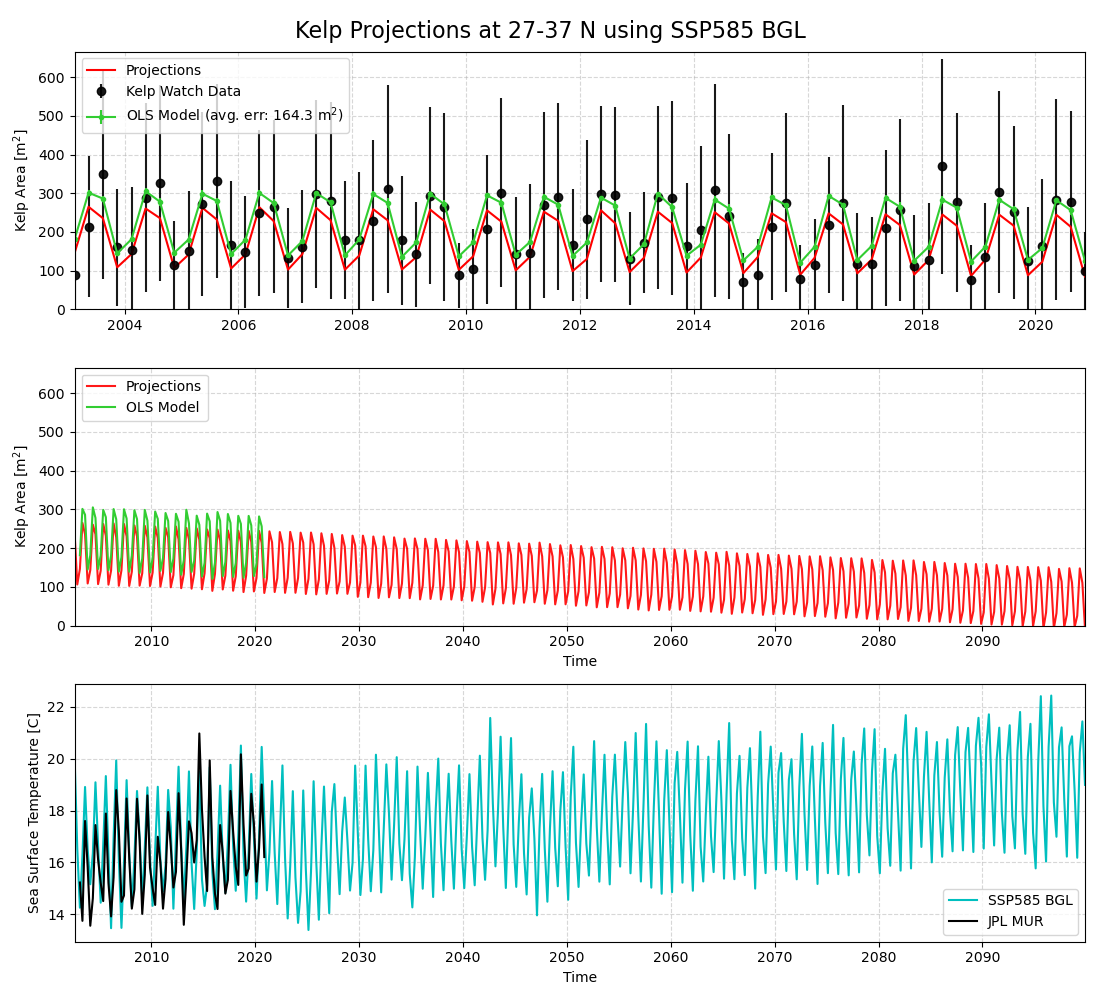
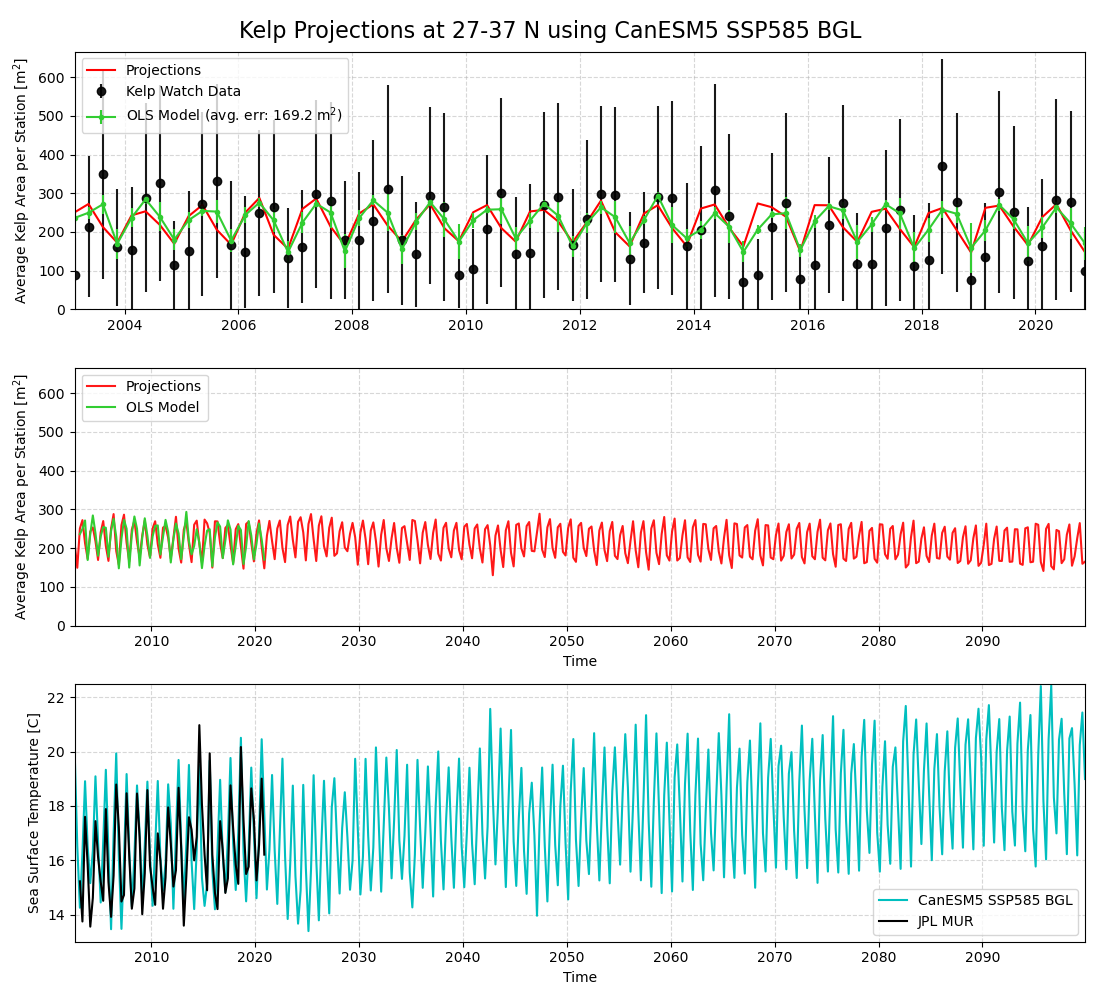
docs

diff --git a/regressors_predict.py b/regressors_predict.py
@@ -21,6 +21,10 @@ if __name__ == "__main__":
     parser.add_argument('-m', '--model', type=str, 
                         help='model type (OLS or MLP)',
                         default="OLS")
+    # sunlight bool
+    parser.add_argument('-s', '--sunlight', type=bool, 
+                        help='use sunlight as feature',
+                        default=False)
     args = parser.parse_args()
 
     # load data from disk
@@ -40,21 +44,38 @@ if __name__ == "__main__":
     print(len(time))
 
     # construct features
-    features = [
-        time, # days, 0-365*20
-        data['sunlight'], # SUNLIGHT
-        data['temp_lag']-273.15,
-        data['temp_lag2']-273.15,
-        np.ones(len(time)) # w_1 * x_1 + w_2 * x_2 + ... + w_n * x_n + b
-    ]
 
-    feature_names = [
-        'time',
-        'sunlight', # SUNLIGHT
-        'temp_lag',
-        'temp_lag2',
-        'bias'
-    ]
+    if args.sunlight:
+        features = [
+            time, # days, 0-365*20
+            data['sunlight'], # SUNLIGHT
+            data['temp_lag']-273.15,
+            data['temp_lag2']-273.15,
+            np.ones(len(time)) # w_1 * x_1 + w_2 * x_2 + ... + w_n * x_n + b
+        ]
+
+        feature_names = [
+            'time',
+            'sunlight', # SUNLIGHT
+            'temp_lag',
+            'temp_lag2',
+            'bias'
+        ]
+    else:
+        features = [
+            time, # days, 0-365*20
+            data['temp_lag']-273.15,
+            data['temp_lag2']-273.15,
+            np.ones(len(time)) # w_1 * x_1 + w_2 * x_2 + ... + w_n * x_n + b
+        ]
+
+        feature_names = [
+            'time',
+            'temp_lag',
+            'temp_lag2',
+            'bias'
+        ]
+
 
     X = np.array(features).T
 
@@ -76,22 +97,38 @@ if __name__ == "__main__":
     time_sim = time_sim.astype(int)
     time_sim_dt = data_sim['time'] # datetime format
 
-    # construct features
-    features = [
-        time_sim, # days
-        data_sim['sunlight'], # SUNLIGHT
-        data_sim['temp_lag'],
-        data_sim['temp_lag2'],
-        np.ones(len(time_sim)) # w_1 * x_1 + w_2 * x_2 + ... + w_n * x_n + b
-    ]
+    if args.sunlight:
 
-    feature_names = [
-        'time',
-        'sunlight', # SUNLIGHT
-        'temp_lag',
-        'temp_lag2',
-        'bias'
-    ]
+        # construct features
+        features = [
+            time_sim, # days
+            data_sim['sunlight'], # SUNLIGHT
+            data_sim['temp_lag'],
+            data_sim['temp_lag2'],
+            np.ones(len(time_sim)) # w_1 * x_1 + w_2 * x_2 + ... + w_n * x_n + b
+        ]
+
+        feature_names = [
+            'time',
+            'sunlight', # SUNLIGHT
+            'temp_lag',
+            'temp_lag2',
+            'bias'
+        ]
+    else:
+        features = [
+            time_sim, # days
+            data_sim['temp_lag'],
+            data_sim['temp_lag2'],
+            np.ones(len(time_sim)) # w_1 * x_1 + w_2 * x_2 + ... + w_n * x_n + b
+        ]
+
+        feature_names = [
+            'time',
+            'temp_lag',
+            'temp_lag2',
+            'bias'
+        ]
 
     X_test = np.array(features).T
 
@@ -204,8 +241,9 @@ if __name__ == "__main__":
     lon = float(args.file_path_sim.split('_')[4].split('.')[0])
     # extract type of model from fs
     climate_model = args.file_path_sim.split('_')[-2]
+    climate_sim = args.file_path_sim.split('_')[-3]
     scaling = args.file_path_sim.split('_')[-1].split('.')[0]
-    fig.suptitle(f"Kelp Projections at {lat:.0f}-{lon:.0f} N using {climate_model.upper()} {scaling.upper()}", fontsize=16)
+    fig.suptitle(f"Kelp Projections at {lat:.0f}-{lon:.0f} N using {climate_sim} {climate_model.upper()} {scaling.upper()}", fontsize=16)
     ax[0].errorbar(utime_dt, bmean, yerr=bstd, fmt='o', color='black', label='Kelp Watch Data',alpha=0.90)
     ax[0].plot(utime_test_dt, mean_ols_test, ls='-', color='red', label='Projections')
     ax[0].errorbar(utime_train_dt, mean_ols_train, yerr=std_ols_train, fmt='.', ls='-', color='limegreen', label=rf'{args.model.upper()} Model (avg. err: {abs_err_ols_train:.1f} m$^2$)')
@@ -213,7 +251,7 @@ if __name__ == "__main__":
     #ax[0].errorbar(utime_train_dt, mean_ols_train, yerr=std_ols_train, fmt='.', ls='-',alpha=0.33, color='blue')
     ax[0].legend(loc='upper left')
     #ax[0].set_xlabel("Time")
-    ax[0].set_ylabel(r"Kelp Area [m$^2$]")
+    ax[0].set_ylabel(r"Average Kelp Area per Station [m$^2$]")
     ax[0].grid(True,ls='--',alpha=0.5)
     ax[0].set_ylim([0,666])
     ax[0].set_xlim([np.min(utime_dt), np.max(utime_dt)])
@@ -223,19 +261,19 @@ if __name__ == "__main__":
     ax[1].set_ylim([0,666])
     ax[1].grid(True,ls='--',alpha=0.5)
     ax[1].set_xlabel("Time")
-    ax[1].set_ylabel(r"Kelp Area [m$^2$]")
+    ax[1].set_ylabel(r"Average Kelp Area per Station [m$^2$]")
     ax[1].legend(loc='upper left')
     ax[1].set_xlim([np.min(utime_test_dt), np.max(utime_test_dt)])
 
     # plot temperature time series for each location
-    ax[2].plot(utime_test_dt, mean_sst_test, 'c-', label=f'{climate_model.upper()} {scaling.upper()}')
+    ax[2].plot(utime_test_dt, mean_sst_test, 'c-', label=f'{climate_sim} {climate_model.upper()} {scaling.upper()}')
     ax[2].plot(utime_train_dt, mean_sst_train-273.15, 'k-', label=f'JPL MUR')
     ax[2].set_xlabel('Time')
     ax[2].set_ylabel('Sea Surface Temperature [C]')
     ax[2].legend()
     ax[2].grid(True,ls='--',alpha=0.5)
     ax[2].set_xlim([np.min(utime_test_dt), np.max(utime_test_dt)])
-
+    ax[2].set_ylim([13,22.5])
     plt.tight_layout()
     file_name = args.file_path_sim.replace('.pkl', '_regressors.png')
     file_name = file_name.replace('metrics', args.model)
@@ -243,14 +281,16 @@ if __name__ == "__main__":
     print(f"Saved {file_name}")
     plt.close()
 
+    dude()
 
     # create nearest neighbor algorithm to map time, lat, lon to kelp
     tree = cKDTree(np.array([time_sim, data_sim['lat'][~nanmask_test], data_sim['lon'][~nanmask_test]]).T)
     def predict_kelp(time, lat, lon):
         dist, idx = tree.query(np.array([time, lat, lon]).T)
-        # SUNLIGHT
-        X_test = np.array([time, data_sim['sunlight'][idx], data_sim['temp_lag'][idx], data_sim['temp_lag2'][idx], 1])
-        #X_test = np.array([time, data_sim['temp_lag'][idx], data_sim['temp_lag2'][idx], 1])
+        if args.sunlight:
+            X_test = np.array([time, data_sim['sunlight'][idx], data_sim['temp_lag'][idx], data_sim['temp_lag2'][idx], 1])
+        else:
+            X_test = np.array([time, data_sim['temp_lag'][idx], data_sim['temp_lag2'][idx], 1])
         return np.dot(X_test, coeffs)    
 
     # days since min date

diff --git a/README.md b/README.md
@@ -159,7 +159,18 @@ Follow these steps to create a new linear regression model from Kelp Watch + MUR
 |---|---|
 | ![](Data/kelp_OLS_sim_27_37_CanESM5_ssp585_BGL_regressors_nosunlight.png) | ![](Data/kelp_OLS_sim_27_37_CanESM5_ssp585_BGL_regressors.png) |
 
-In order to run without the sunlight feature search for `# SUNLIGHT` in `regressors_predict.py` and comment out the lines
+
+The sunlight feature can be toggled through the command line when running `regressors_predict.py`
+
+### Varying the Climate model
+
+These plots show various projections without the sunlight feature
+
+| CanESM5 | GFDL-ESM4 |
+| --- | --- |
+| ![](Data/kelp_OLS_sim_27_37_CanESM5_ssp126_BGL_regressors.png) | ![](Data/kelp_OLS_sim_27_37_GFDL-ESM4_ssp126_BGL_regressors.png) |
+| ![](Data/kelp_OLS_sim_27_37_CanESM5_ssp585_BGL_regressors.png) | ![](Data/kelp_OLS_sim_27_37_GFDL-ESM4_ssp585_BGL_regressors.png) |
+
 
 # Datasets
 
